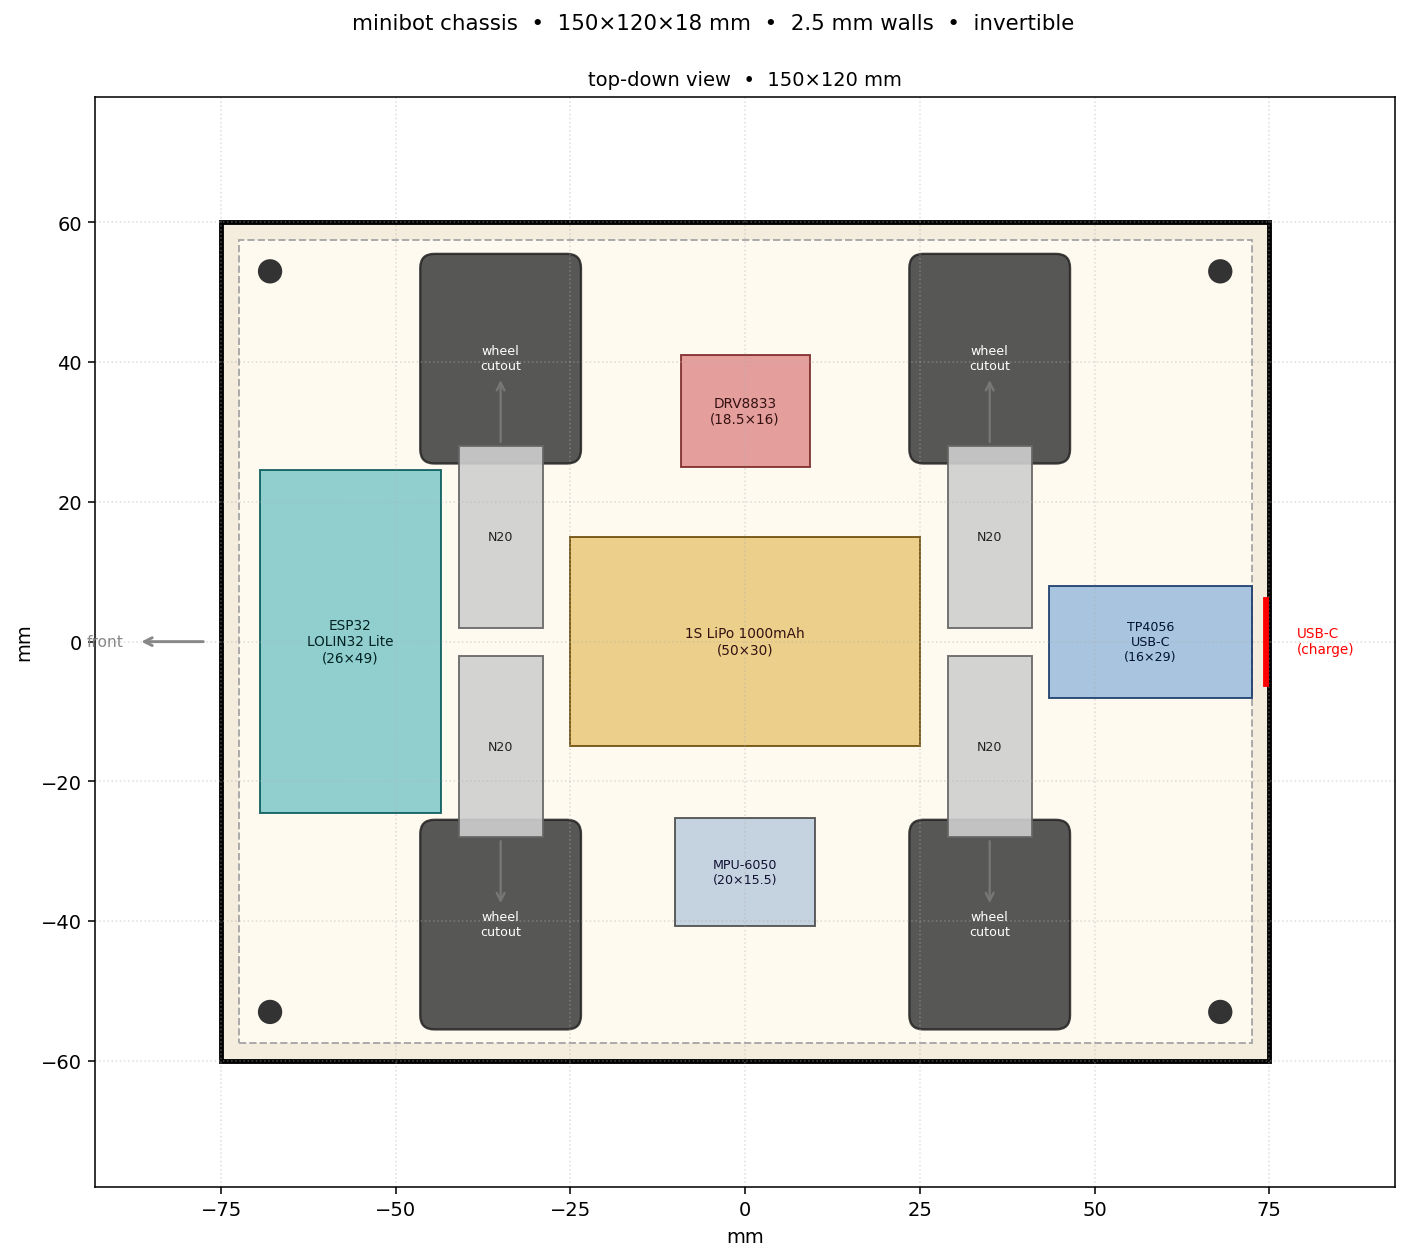
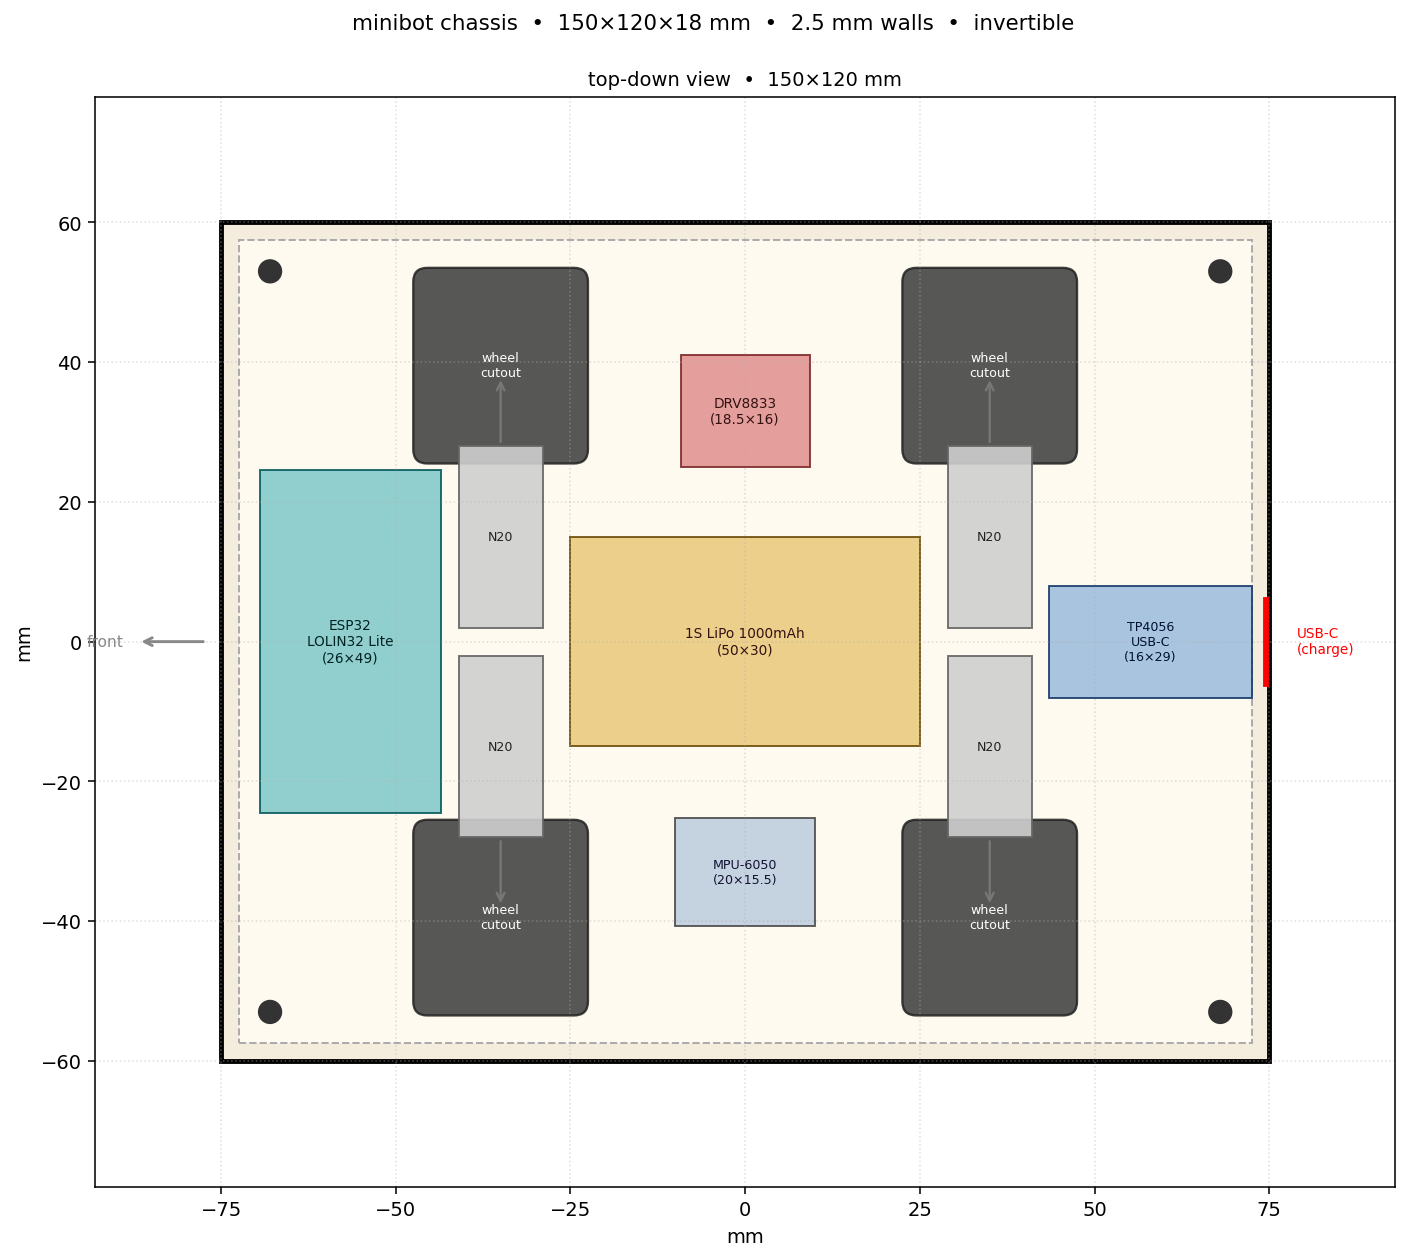
fix(cad): swap wheel dims to measured ⌀25 x 23mm wide

diff --git a/docs/cad/layout.py b/docs/cad/layout.py
@@ -26,8 +26,8 @@ motor_length = 26      # body only, excluding shaft
 motor_axle_pitch = 70
 motor_track = 30
 
-wheel_diameter = 23      # measured outer diameter incl. rubber tire
-wheel_width = 25
+wheel_diameter = 25      # measured outer diameter incl. rubber tire
+wheel_width = 23
 wheel_clearance = 2.0
 
 motor_center_y = motor_track / 2
@@ -88,7 +88,7 @@ def draw_top(ax) -> None:
         linewidth=1, edgecolor="#aaa", facecolor="#fffaf0", linestyle="--",
     ))
 
-    cutout_x = 22
+    cutout_x = 24
     cutout_y = wheel_width + 4
     for x, y in wheel_positions:
         ax.add_patch(patches.FancyBboxPatch(

diff --git a/research.md b/research.md
@@ -36,8 +36,8 @@ Running log of what we learned while building minibot. Updated as we go.
 
 - **Type**: N20 micro metal gear motors, **6V 400 RPM, 20mm shaft** (4×)
 - **Voltage choice**: 6V over 3V because the 3.7V LiPo (4.2V full) overvolts a 3V motor by 23–40%, shortening lifespan and risking thermal failure under stall. Undervolting a 6V motor is harmless — it just runs slower, with more headroom on heat and stall current.
-- **Shaft length**: 20mm to match deep-hub wheels (JS2622, measured ⌀23 × 25 mm). Standard ~9mm shafts would slip in deep hubs.
-- **RPM choice**: 400 RPM was the practical pick from what's actually in stock — ideal would have been 600 RPM for a snappier "speedy" feel, but 400 RPM is still a usable balance of speed and torque. At 3.7V loaded with the 23mm JS2622 wheels: ~0.9 km/h cruise, ~1.0 km/h peak. Future upgrade path: 2S LiPo (7.4V) would push it to ~1.7 km/h.
+- **Shaft length**: 20mm to match deep-hub wheels (JS2622, measured ⌀25 × 23 mm). Standard ~9mm shafts would slip in deep hubs.
+- **RPM choice**: 400 RPM was the practical pick from what's actually in stock — ideal would have been 600 RPM for a snappier "speedy" feel, but 400 RPM is still a usable balance of speed and torque. At 3.7V loaded with the 25mm JS2622 wheels: ~1.0 km/h cruise, ~1.1 km/h peak. Future upgrade path: 2S LiPo (7.4V) would push it to ~1.8 km/h.
 - **Visible gear stages identical across all 4** → same gear ratio → same output RPM at same voltage.
 - **Current draw**: ~200 mA cruise, 500–700 mA stall per motor. Paired (2× per side) → 1–1.4 A stall per side — within DRV8833's 1.5 A continuous / 2 A peak window.
 - **Encoders**: none — open-loop control only (we command, we don't sense).

diff --git a/docs/parts.md b/docs/parts.md
@@ -9,7 +9,7 @@ Everything needed to build a minibot from scratch. Prices are rough Euro estimat
 | 1 | **WeMos LOLIN32 Lite** (ESP32 + CH340 + JST + TP4054) | The brain. Search "LOLIN32 Lite" on AliExpress. | €5–8 | €5–8 |
 | 1 | **DRV8833 dual motor driver breakout** | Pololu-style carrier, ~18.5 × 16 mm. Drives 2 motors at 1.5 A continuous / 2 A peak per channel. Recommend buying spares. | €1.50 | €1.50 |
 | 4 | **N20 6V 400 RPM micro metal gearmotor**, 20 mm shaft, D-cut | Get them all from one listing so they're matched. Search "N20 6V 400rpm 20mm shaft". | €2.50 | €10 |
-| 4 | **JS2622 wheel** (rubber tire), D-shaft hub | Measured ⌀23 mm × 25 mm wide. Rides on the motor's long shaft. | €1.80 | €7.20 |
+| 4 | **JS2622 wheel** (rubber tire), D-shaft hub | Measured ⌀25 mm × 23 mm wide. Rides on the motor's long shaft. | €1.80 | €7.20 |
 | 1 | **MPU-6050 IMU module** | 6-axis accel + gyro on I²C. Used to detect upside-down and auto-flip drive direction. Spare buying recommended — 5 for ~€1.50 each. | €1.50 | €1.50 |
 | 1 | **TP4056 USB-C charge + DW01A protection board** (the "18650 Type-C" board) | Charges the battery via USB-C and protects against overcharge / overdischarge / overcurrent / short-circuit. OUT+ / OUT- feed the load (replaces the LOLIN32's onboard charger path). | €1–2 | €1.50 |
 | 1 | **1S LiPo 3.7 V 1000 mAh** pouch (603048, ~50 × 30 × 6 mm measured) | 6 mm thick fits the 12 mm cavity easily. Wires solder directly to TP4056 B+ / B-. | €6 | €6 |

diff --git a/README.md b/README.md
@@ -96,7 +96,7 @@ Quick summary — see [`docs/parts.md`](docs/parts.md) for the full list with ve
 | ESP32 LOLIN32 Lite | 1 | €5–8 |
 | DRV8833 breakout | 1 | €1.50 |
 | N20 6 V 400 RPM motor, 20 mm shaft | 4 | €10 |
-| JS2622 wheel (⌀23 × 25 mm) | 4 | €7.20 |
+| JS2622 wheel (⌀25 × 23 mm) | 4 | €7.20 |
 | MPU-6050 IMU module | 1 | €1.50 |
 | TP4056 USB-C charge + DW01A protection board | 1 | €1–2 |
 | 1S LiPo 1000 mAh (603048) | 1 | €6 |
